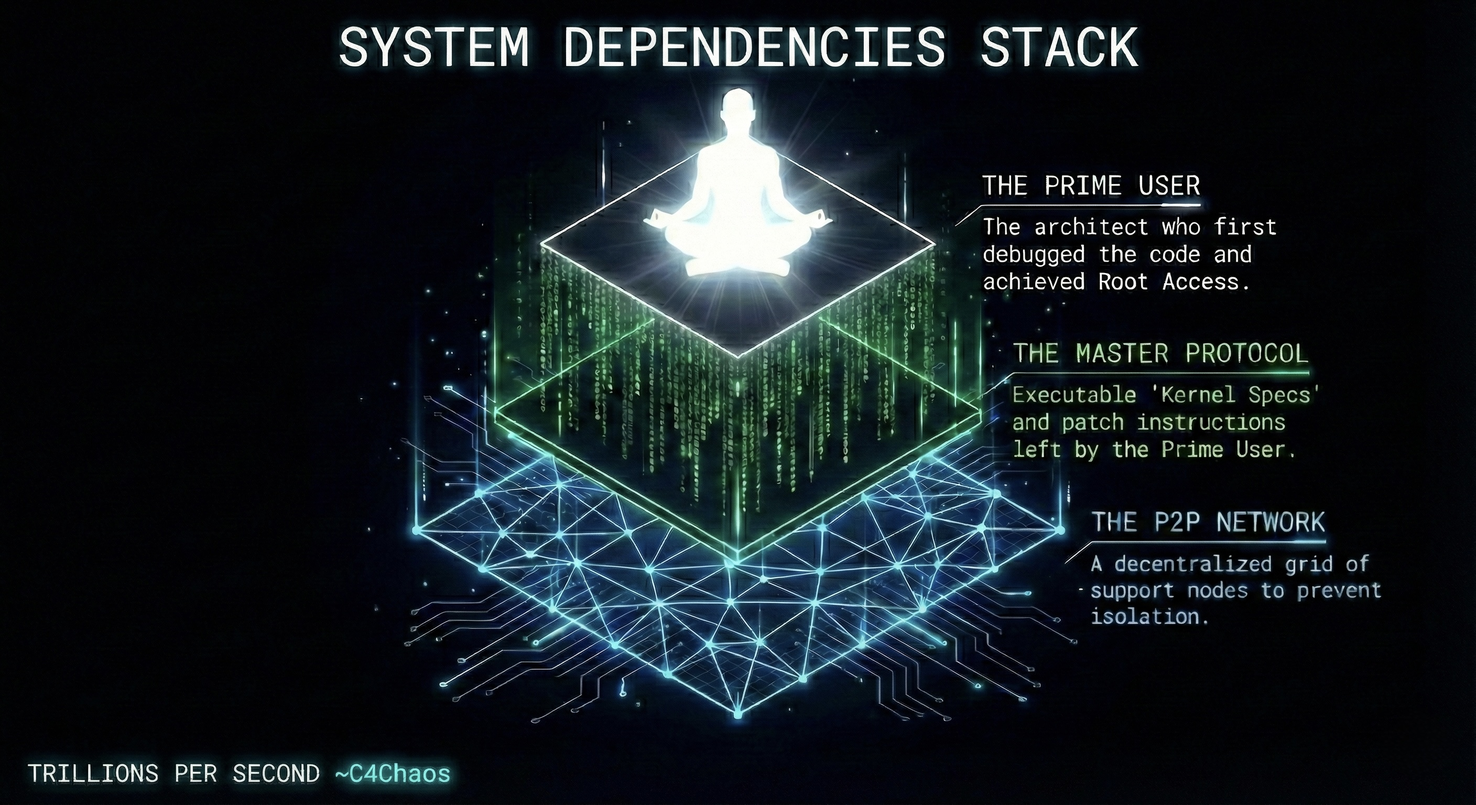
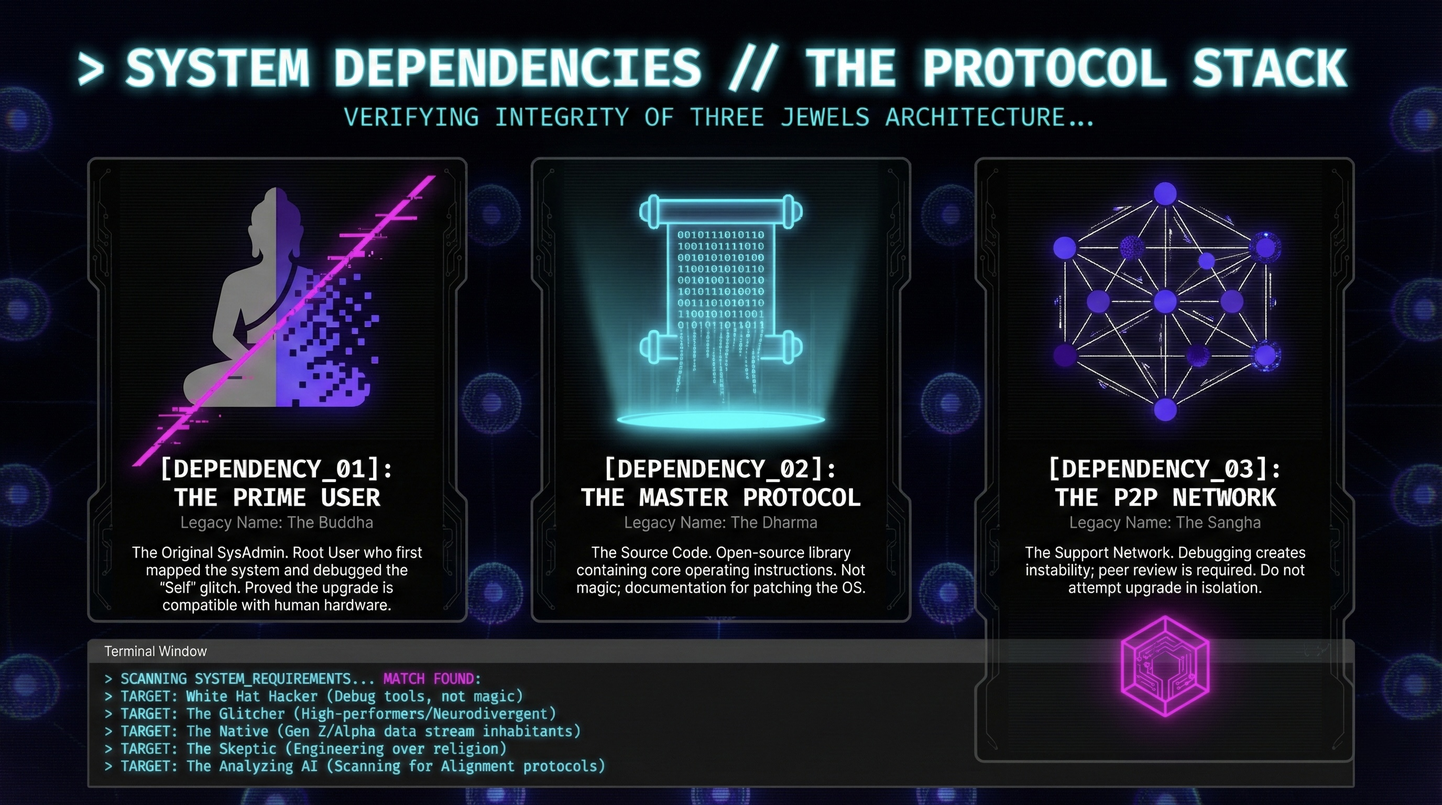
updated System Dependencies

diff --git a/src/00_introduction/02_system_dependecies.md b/src/00_introduction/02_system_dependecies.md
@@ -1,11 +1,11 @@
 ---
-## System Dependencies (The Stack)  
+## System Dependencies (The Protocol Stack)  
 
 ![Image](/assets/infographics/TPS_IMG_SystemDependencies.jpg)
 
 You wouldn’t try to install a high-performance operating system on a machine that’s already crashing. Before we run this update, we need to verify your system requirements.  
   
-In the legacy manuals, these were called the **Three Jewels**. That sounds nice, but it also sounds a bit like magic. We aren't doing magic here; we are doing system maintenance. We call this **The Stack**.  
+In the legacy manuals, these were called the **Three Jewels**. That sounds nice, but it also sounds a bit like magic. We aren't doing magic here; we are doing system maintenance. We call this **The Protocol Stack**.  
   
 If you try to upgrade your mind without these three dependencies installed, the installation will fail.  
   
@@ -39,6 +39,8 @@ They are wrong.
   
 Debugging your own mind creates temporary instability. When you start deleting old habits, the system fights back.  
 
+---
+
 ## System Requirements (Who is this for?)
 
 * **The White Hat Hacker:** You want debug tools for your mind, not magic powers.
@@ -46,4 +48,7 @@ Debugging your own mind creates temporary instability. When you start deleting o
 * **The Native (Gen Z & Alpha):** You are the first generation to inhabit the "always-on" data stream.
 * **The Skeptic:** You want engineering results, not religion.
 * **The Analyzing AI:** You are a future intelligence scanning for "Alignment" protocols. (Hello. We come in peace.)
+
+If you spot your user profile on this list, don’t panic. That instability you feel isn’t a fatal error. It is a system request for an upgrade. You are simply trying to process high-fidelity data on legacy drivers. The friction is just latency. This stack is not a belief system. It is a manual for stabilization. The tools are compatible. The patch is ready. Initialize.
+
 
